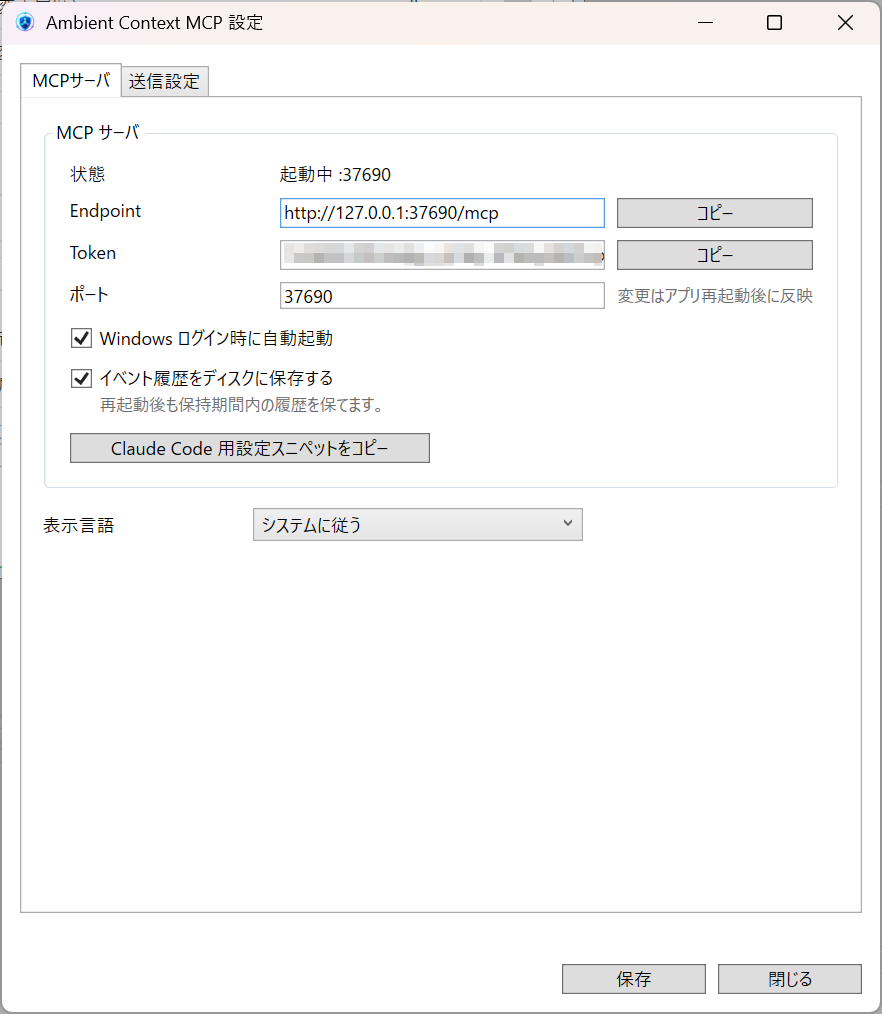
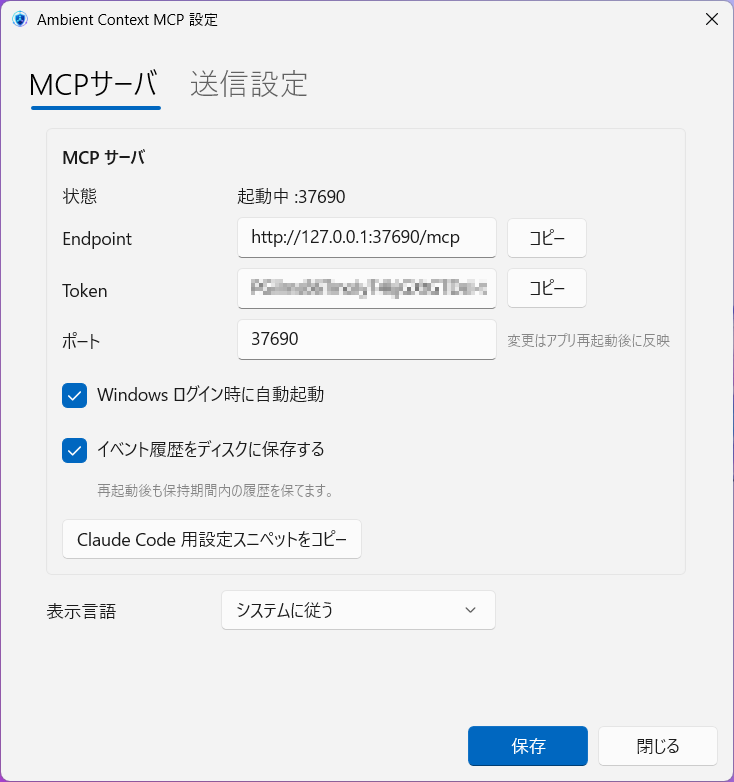
fix(desktop): drop 右端の from sensitivity legend + refresh settings screenshots
- SensitivityLegend: remove the "右端の" / "(right column)" locational prefix
  from both the JA and EN strings so the legend reads "機微度: …" /
  "Sensitivity: …".
- screenshot1/2.png: retake against the new WinUI 3 settings dialog
  (MCP Server and Transmission tabs); screenshot2 reflects the updated legend.

diff --git a/src/windows/AmbientContextMcp.Desktop/Resources/Strings.cs b/src/windows/AmbientContextMcp.Desktop/Resources/Strings.cs
@@ -92,8 +92,8 @@ public static class Strings
         "Event history");
 
     public static string SensitivityLegend { get; } = T(
-        "右端の機微度: Low = 公開しても影響が小さい / Medium = 文脈次第で機微になり得る / High = 個人特定や具体的行動を含み得る",
-        "Sensitivity (right column): Low = low impact if shared / Medium = context-dependent / High = may identify the user or expose specific behavior");
+        "機微度: Low = 公開しても影響が小さい / Medium = 文脈次第で機微になり得る / High = 個人特定や具体的行動を含み得る",
+        "Sensitivity: Low = low impact if shared / Medium = context-dependent / High = may identify the user or expose specific behavior");
 
     public static string LabelRetention { get; } = T(
         "保持期間",
